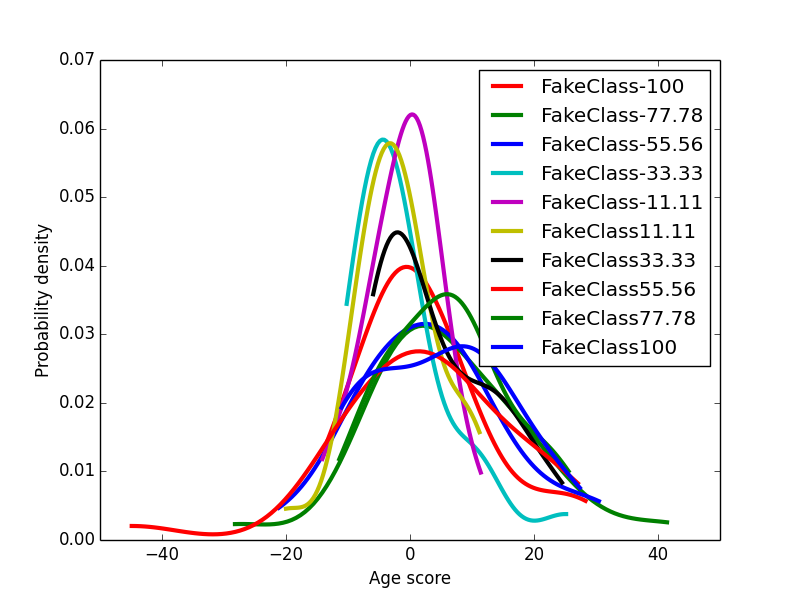
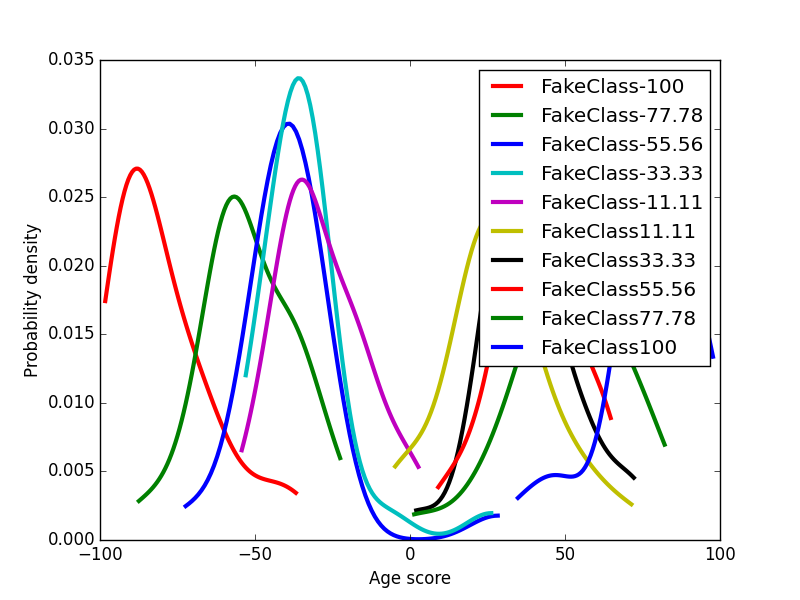
Rewrote test_Graph unittests and ArtificialFeatureSets to work with all versions numpy

diff --git a/tests/pywndcharm_tests/test_Graphs.py b/tests/pywndcharm_tests/test_Graphs.py
@@ -33,6 +33,8 @@ import filecmp
 from tempfile import mkdtemp
 from shutil import rmtree
 
+import numpy as np
+
 pychrm_test_dir = dirname( realpath( __file__ ) ) #WNDCHARM_HOME/tests/pychrm_tests
 wndchrm_test_dir = dirname( pychrm_test_dir ) + sep + 'wndchrm_tests'
 
@@ -52,8 +54,8 @@ class TestGraphs( unittest.TestCase ):
     """Test WND-CHARM's graph-making functionality."""
     
     fs = CreateArtificialFeatureSet_Discrete( n_samples=1000, n_classes=10, 
-            initial_noise_sigma=100, noise_gradient=10, random_state=43 )
-    train_set, test_set = fs.Split( randomize=False, quiet=True )
+            initial_noise_sigma=100, noise_gradient=10, random_state=43)
+    train_set, test_set = fs.Split( random_state=False, quiet=True )
     train_set.Normalize( quiet=True )
     fw = FisherFeatureWeights.NewFromFeatureSet( train_set ).Threshold()
 
@@ -96,7 +98,7 @@ class TestGraphs( unittest.TestCase ):
     def test_RankOrderedFromBatchClassificationResult( self ):
         """Rank Ordered Predicted values graph from a single split"""
 
-        testfilename = 'test_graph_rank_ordered.png'
+        testfilename = 'test_graph_rank_ordered_interpolated_discrete.png'
         graph = PredictedValuesGraph( self.batch_result )
         graph.RankOrderedPredictedValuesGraph()
         self.CompareGraphs( graph, testfilename )
@@ -108,10 +110,9 @@ class TestGraphs( unittest.TestCase ):
         testfilename = 'test_graph_kernel_smoothed.png'
         graph = PredictedValuesGraph( self.batch_result )
         graph.KernelSmoothedDensityGraph()
-
         self.CompareGraphs( graph, testfilename )
 
-    @unittest.skip( "Skip until ShuffleSplit has a RandomState param to pass in" )
+    @unittest.skipUnless( HasMatplotlib, "Skipped if matplotlib IS NOT installed" )
     def test_FromDiscreteClassificationExperimentResults( self ):
         """Rank Ordered Predicted values graph from an experiment result (multiple splits)"""
 
@@ -122,7 +123,6 @@ class TestGraphs( unittest.TestCase ):
         experiment = DiscreteClassificationExperimentResult.NewShuffleSplit( small_fs, quiet=True )
         graph = PredictedValuesGraph( self.batch_result )
         graph.RankOrderedPredictedValuesGraph()
-        # graph.SaveToFile( tempfile ) # remove after RandomState for ShuffleSplit is implemented
         self.CompareGraphs( graph, testfilename )
 
     @unittest.skipUnless( HasMatplotlib, "Skipped if matplotlib IS NOT installed" )
@@ -142,28 +142,27 @@ class TestGraphs( unittest.TestCase ):
         zipped_file_path = pychrm_test_dir + sep + 'c_elegans_terminal_bulb.html.zip'
         zf = zipfile.ZipFile( zipped_file_path, mode='r' )
         zf.extractall( self.tempdir )
-        tempfile = self.tempdir + sep + testfilename
         htmlfilepath = self.tempdir + sep + zf.namelist()[0]
         exp_result = DiscreteClassificationExperimentResult.NewFromHTMLReport( htmlfilepath )
         graph = PredictedValuesGraph( exp_result )
         graph.RankOrderedPredictedValuesGraph()
-        graph.SaveToFile( tempfile )
-        try:
-            self.assertTrue( filecmp.cmp( testfilename, tempfile ) ) 
-        except AssertionError:
-            print "Files not equal: {0} and {1}".format( testfilename, tempfile )
-            raise
+               
+        # Rather than generate a png and do a binary diff, compare the values inside
+        # matplotlib figure object
+        all_coords = np.dstack( tuple( [group._offsets for group in graph.figure.gca().collections] ) )
+        
+        reference_array = np.load( 'c_elegans_terminal_bulb.npy' )
+        self.assertTrue( np.array_equal( all_coords, reference_array ) )
 
 
-    @unittest.skip( "Skip until test training set w/ uninterpolatable class lables is made avail." )
-    #@unittest.skipUnless( HasMatplotlib, "Skipped if matplotlib IS NOTinstalled" )
+    @unittest.skipUnless( HasMatplotlib, "Skipped if matplotlib IS NOTinstalled" )
     def test_IfNotInterpolatable( self ):
         """You can't graph predicted values if the classes aren't interpolatable."""
 
         testfilename = 'ShouldntBeGraphable.png'
-        fitfilepath = wndchrm_test_dir + sep + 'test-l.fit'
-        fs = FeatureSet_Discrete.NewFromFitFile( fitfilepath )
-        train_set, test_set = fs.Split( randomize=False, quiet=True )
+        small_fs = CreateArtificialFeatureSet_Discrete( 
+                        n_samples=20, n_classes=2, random_state=42, interpolatable=False )
+        train_set, test_set = small_fs.Split( random_state=False, quiet=True )
         train_set.Normalize()
 
         fw = FisherFeatureWeights.NewFromFeatureSet( train_set ).Threshold()
@@ -171,15 +170,10 @@ class TestGraphs( unittest.TestCase ):
         reduced_test_set = test_set.FeatureReduce( fw.names )
         test_set.Normalize( train_set, quiet=True )
 
-        batch_result = DiscreteBatchClassificationResult.New( reduced_train_set, reduced_test_set, fw, quiet=True )
-        graph = PredictedValuesGraph( batch_result )
-
-        tempfile = self.tempdir + sep + testfilename
-
+        batch_result = DiscreteBatchClassificationResult.New(
+                                    reduced_train_set, reduced_test_set, fw, quiet=True )
         with self.assertRaises( ValueError ):
-            graph.RankOrderedPredictedValuesGraph()
-            graph.SaveToFile( tempfile )
-
+            graph = PredictedValuesGraph( batch_result )
 
 
 if __name__ == '__main__':

diff --git a/wndcharm/ArtificialFeatureSets.py b/wndcharm/ArtificialFeatureSets.py
@@ -11,8 +11,8 @@ signals = {
 'negative_linear' : lambda x: -1*x,                      # y:-x
 'step'            : lambda x: -100 if x < 0 else 100,    # y:-100, x<0; y:100 x>0
 'sinusoidal'      : lambda x: 100 * sin( 0.1 * x ),      # y:100*sin(0.1x)
-'tangent'         : lambda x: 100 * tan( 0.1 * x ),      # y:100*tan(0.1x)
-'exponential'     : lambda x: e ** x,                    # y:e^(0.1x)
+'tangent'         : lambda x: tan( 0.0156 * x ),         # y:tan(0.0156x) # corners are distinct
+'exponential'     : lambda x: e ** (0.05 * x ),          # y:e^(0.7x) => e^7 = 1096
 'quadratic'       : lambda x: 0.01 * x ** 2,             # y:0.01x^2
 'cubic'           : lambda x: 0.0002 * x ** 3,           # y:0.0002x^3
 'asymptotal'      : lambda x: 50 * atan( 0.1 * x + 10 ), # y:50*atan(0.1x+10)
@@ -25,11 +25,11 @@ def logarithmic( x ):
   except ValueError: # math domain error b/c (undef for x < 0)
     return numpy.nan
 
-signals[ 'logarithmic' ] = logarithmic
+#signals[ 'logarithmic' ] = logarithmic
 
 
 def CreateArtificialFeatureSet_Continuous( name="ContinuousArtificialFS", n_samples=100,
-    num_features_per_signal_type=10, noise_gradient=5, initial_noise_sigma=10,
+    num_features_per_signal_type=30, noise_gradient=5, initial_noise_sigma=10,
     n_samples_per_group=1, random_state=None ):
     """
     Analogous to sklearn.datasets.make_regression, but simplified.
